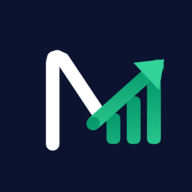
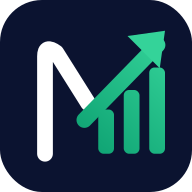
PWA pronto para lojas

diff --git a/src/pages/Privacy.jsx b/src/pages/Privacy.jsx
@@ -1,0 +1,40 @@
+import { Link } from 'react-router-dom';
+import { Logo } from '../components/Logo.jsx';
+
+export default function Privacy() {
+  const S = ({ title, children }) => (
+    <section className="mt-6"><h2 className="font-display font-bold text-lg mb-1">{title}</h2><div className="text-sm text-muted leading-relaxed space-y-2">{children}</div></section>
+  );
+  return (
+    <div className="min-h-screen bg-[hsl(var(--bg))]">
+      <div className="bg-gradient-to-br from-[#080d1f] to-[#0d1433] text-white px-6 py-6"><Logo size="md" /></div>
+      <div className="max-w-2xl mx-auto p-6">
+        <h1 className="font-display text-2xl font-bold">Política de Privacidade</h1>
+        <p className="text-xs text-muted mt-1">Última atualização: {new Date().toLocaleDateString('pt-BR')}</p>
+
+        <S title="1. Quais dados coletamos">
+          <p>Coletamos apenas o necessário para o funcionamento do app: seu <b>e-mail</b> e <b>senha</b> (a senha é armazenada de forma criptografada), seu <b>nome, telefone, profissão e foto</b> (opcionais) e os <b>dados financeiros que você mesmo cadastra</b> (contas, cartões, lançamentos, metas, categorias e comprovantes que você anexar).</p>
+        </S>
+        <S title="2. Como usamos os dados">
+          <p>Seus dados são usados exclusivamente para prestar o serviço do Monvy: exibir seus saldos, relatórios, alertas e previsões. Não vendemos nem compartilhamos seus dados com terceiros para fins de marketing.</p>
+        </S>
+        <S title="3. Onde os dados ficam">
+          <p>Os dados ficam armazenados em banco de dados seguro (Turso/LibSQL) e a aplicação é hospedada na Vercel, ambos com conexão criptografada (HTTPS). Leituras de PDF de fatura e OCR são processadas <b>localmente no seu dispositivo</b> — o arquivo não é enviado a servidores externos.</p>
+        </S>
+        <S title="4. E-mails">
+          <p>Podemos enviar e-mails de confirmação de cadastro, alteração de senha e alertas de vencimento. Você pode desativar notificações nas configurações.</p>
+        </S>
+        <S title="5. Seus direitos (LGPD)">
+          <p>Você pode acessar, corrigir e excluir seus dados a qualquer momento dentro do app, ou solicitar a exclusão completa da conta. Para isso, entre em contato pelo e-mail abaixo.</p>
+        </S>
+        <S title="6. Contato">
+          <p>Dúvidas sobre privacidade: <b>viniciussouza742@gmail.com</b> — Vinicius Santos, desenvolvedor do Monvy.</p>
+        </S>
+
+        <div className="mt-8 pt-4 border-t border-[hsl(var(--border))]">
+          <Link to="/login" className="text-emerald-600 font-semibold text-sm">← Voltar ao Monvy</Link>
+        </div>
+      </div>
+    </div>
+  );
+}

diff --git a/src/App.jsx b/src/App.jsx
@@ -5,6 +5,7 @@ import { AppLayout } from './layout/AppLayout.jsx';
 import Login from './pages/Login.jsx';
 import Register from './pages/Register.jsx';
 import Verify from './pages/Verify.jsx';
+import Privacy from './pages/Privacy.jsx';
 import ForgotPassword from './pages/ForgotPassword.jsx';
 import ResetPassword from './pages/ResetPassword.jsx';
 import Dashboard from './pages/Dashboard.jsx';
@@ -50,6 +51,7 @@ export default function App() {
       <Route path="/login" element={<Login />} />
       <Route path="/cadastro" element={<Register />} />
       <Route path="/verificar" element={<Verify />} />
+      <Route path="/privacidade" element={<Privacy />} />
       <Route path="/esqueci-senha" element={<ForgotPassword />} />
       <Route path="/redefinir-senha" element={<ResetPassword />} />
       <Route path="/recuperar" element={<ForgotPassword />} />

diff --git a/STORE.md b/STORE.md
@@ -1,0 +1,32 @@
+# Publicar o Monvy nas lojas (PWA)
+
+O Monvy é um PWA hospedado na Vercel (HTTPS). Isso permite empacotá-lo para lojas
+sem reescrever nada, usando o **PWABuilder** (https://www.pwabuilder.com).
+
+## Pré-requisitos (já prontos)
+- App publicado em HTTPS (Vercel).
+- `manifest.webmanifest` com nome, ícones PNG (192, 512, maskable) e cores.
+- Service worker (`/sw.js`).
+- Política de privacidade pública em `/privacidade` (as lojas exigem uma URL).
+
+## Microsoft Store (Windows) — MSIX
+1. Acesse https://www.pwabuilder.com e informe a URL do seu app (ex.: https://monvys.vercel.app).
+2. Clique em **Package For Stores → Windows**.
+3. Baixe o pacote **MSIX**.
+4. Crie uma conta de desenvolvedor no Partner Center da Microsoft (taxa única ~US$19).
+5. Envie o MSIX, preencha descrição, capturas de tela e o link de privacidade.
+
+## Google Play (Android) — TWA / .aab
+1. No PWABuilder, **Package For Stores → Android** (gera um `.aab` via Trusted Web Activity).
+   - Ou use o Bubblewrap: `npx @bubblewrap/cli init --manifest https://SEU-APP/manifest.webmanifest`.
+2. Ao gerar, o PWABuilder mostra a **SHA-256** da chave de assinatura.
+3. Cole essa SHA-256 em `public/.well-known/assetlinks.json` (campo `sha256_cert_fingerprints`)
+   e no `package_name` use o mesmo id do app (ex.: `app.monvy.twa`). Faça deploy de novo.
+   Isso verifica que você é dono do domínio (remove a barra de URL do navegador).
+4. Conta de desenvolvedor Google Play (taxa única US$25). Envie o `.aab`, descrição,
+   ícone, capturas de tela e o link de privacidade.
+
+## Dicas
+- Capturas de tela: tire do próprio app (Dashboard, Lançamentos, Relatórios).
+- Ícone da loja: use `public/icon-512.png` (ou o maskable).
+- iOS/App Store: exige empacotar com Capacitor + conta Apple (US$99/ano) — opcional.
